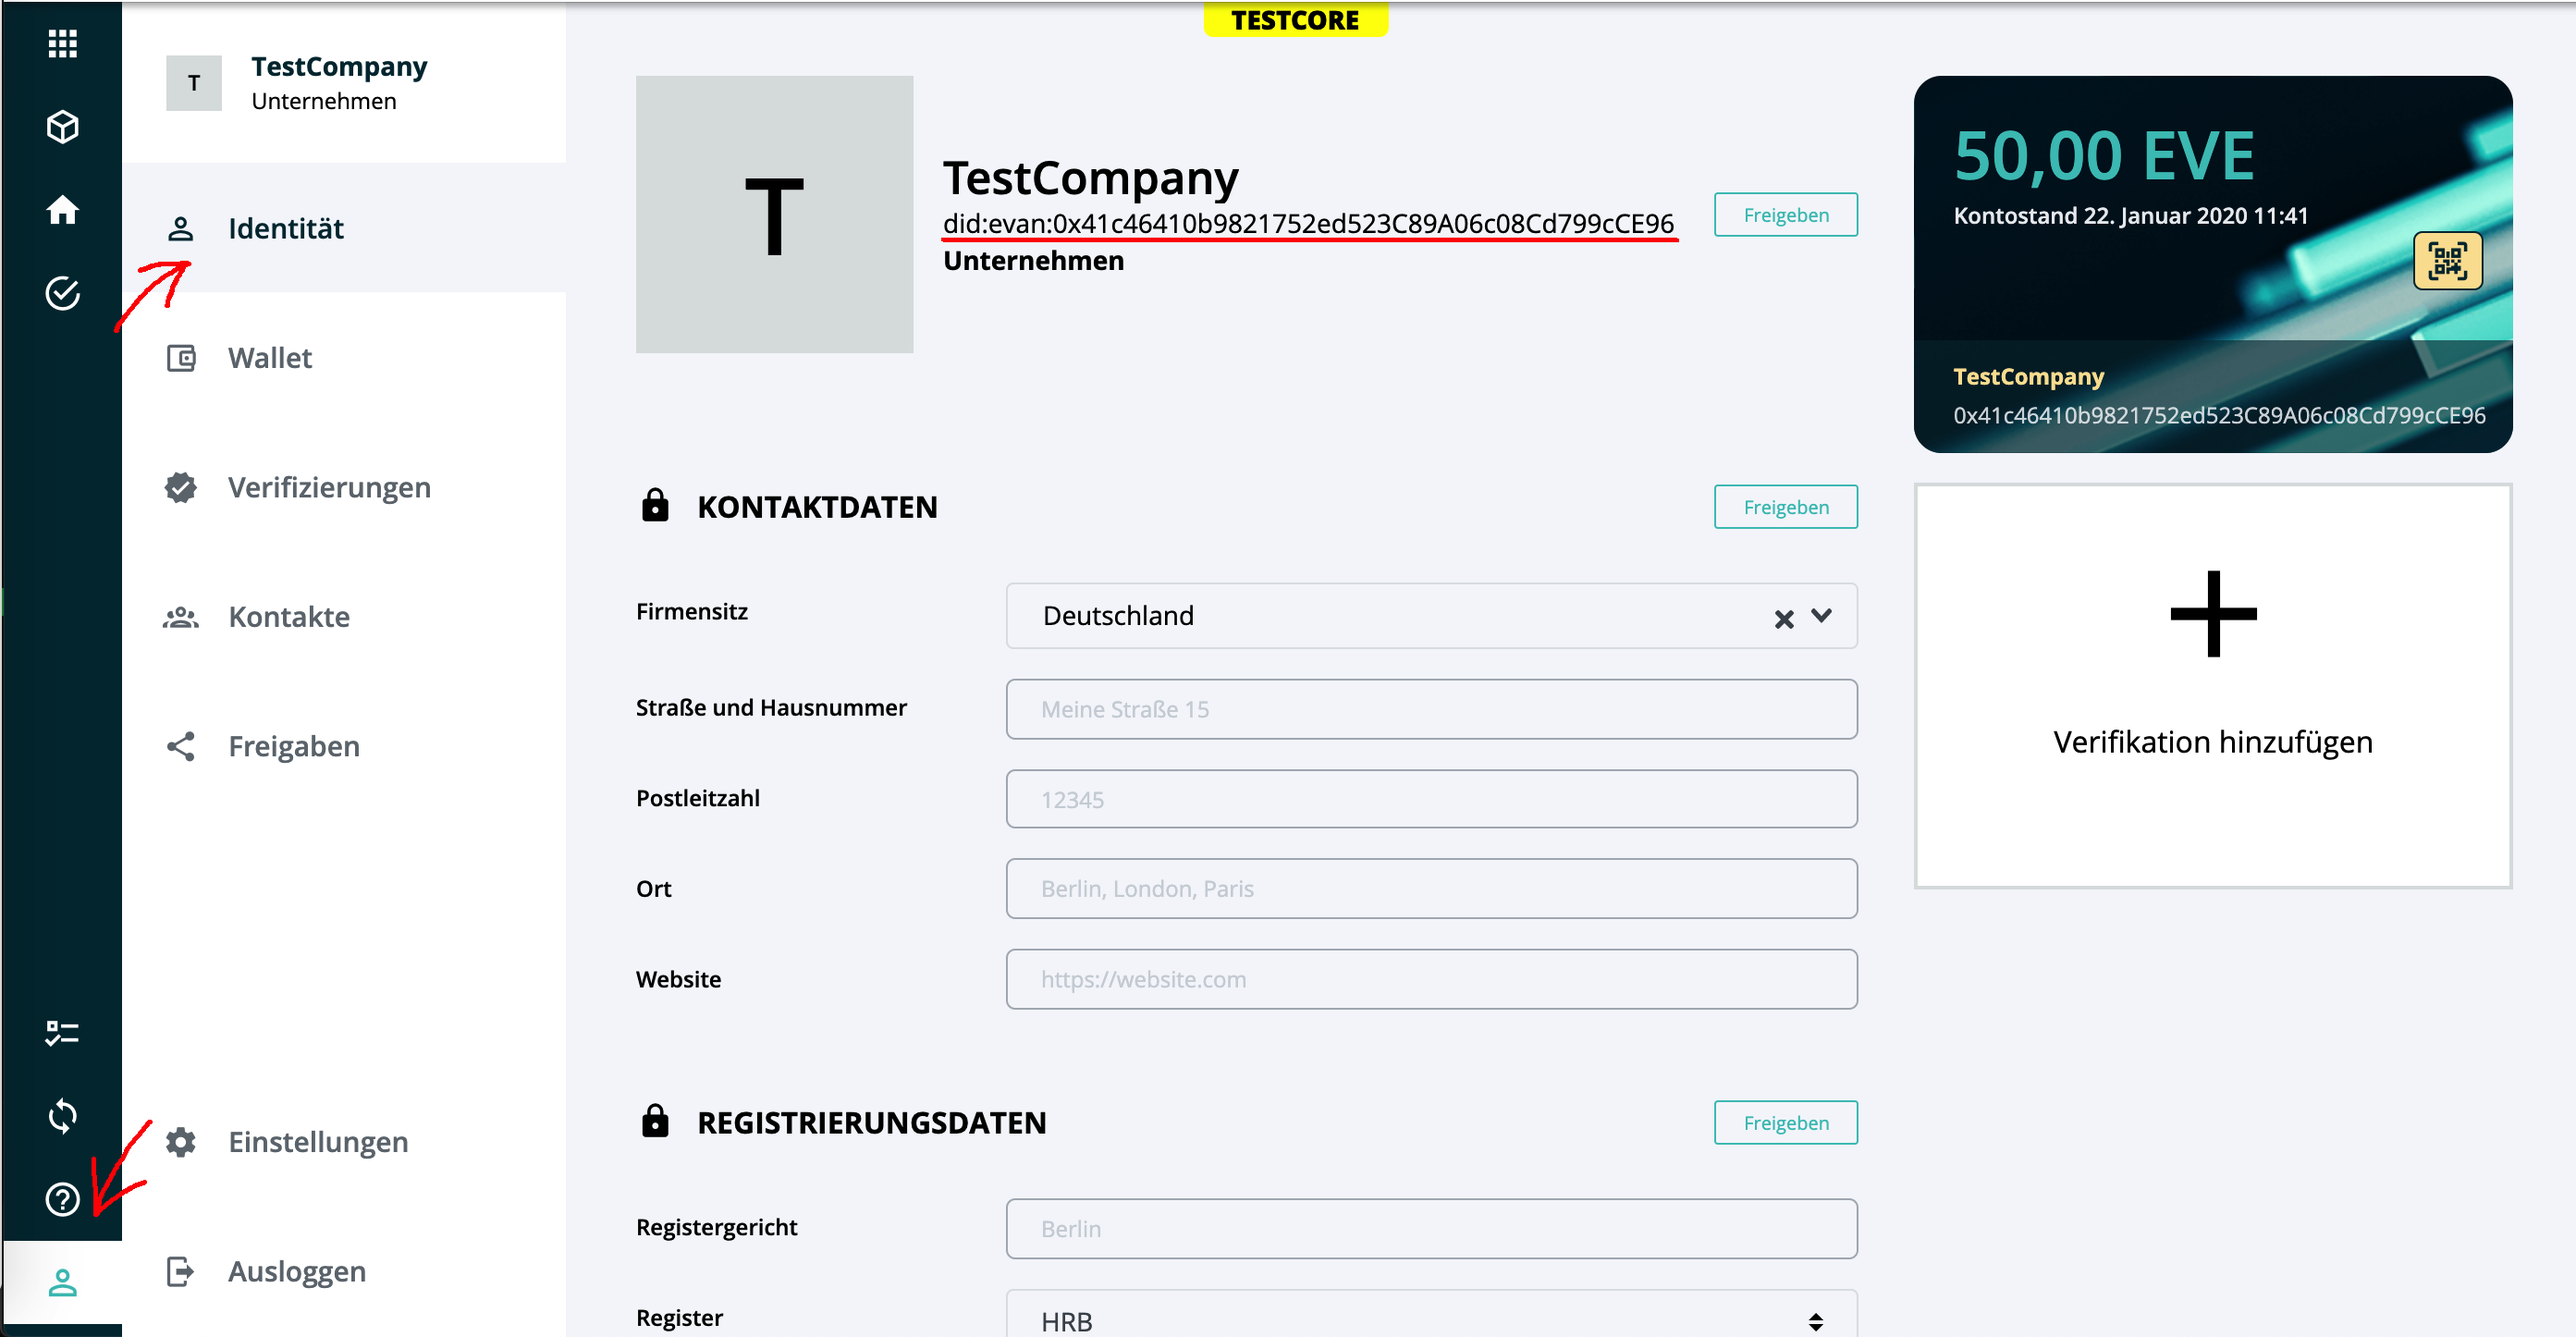
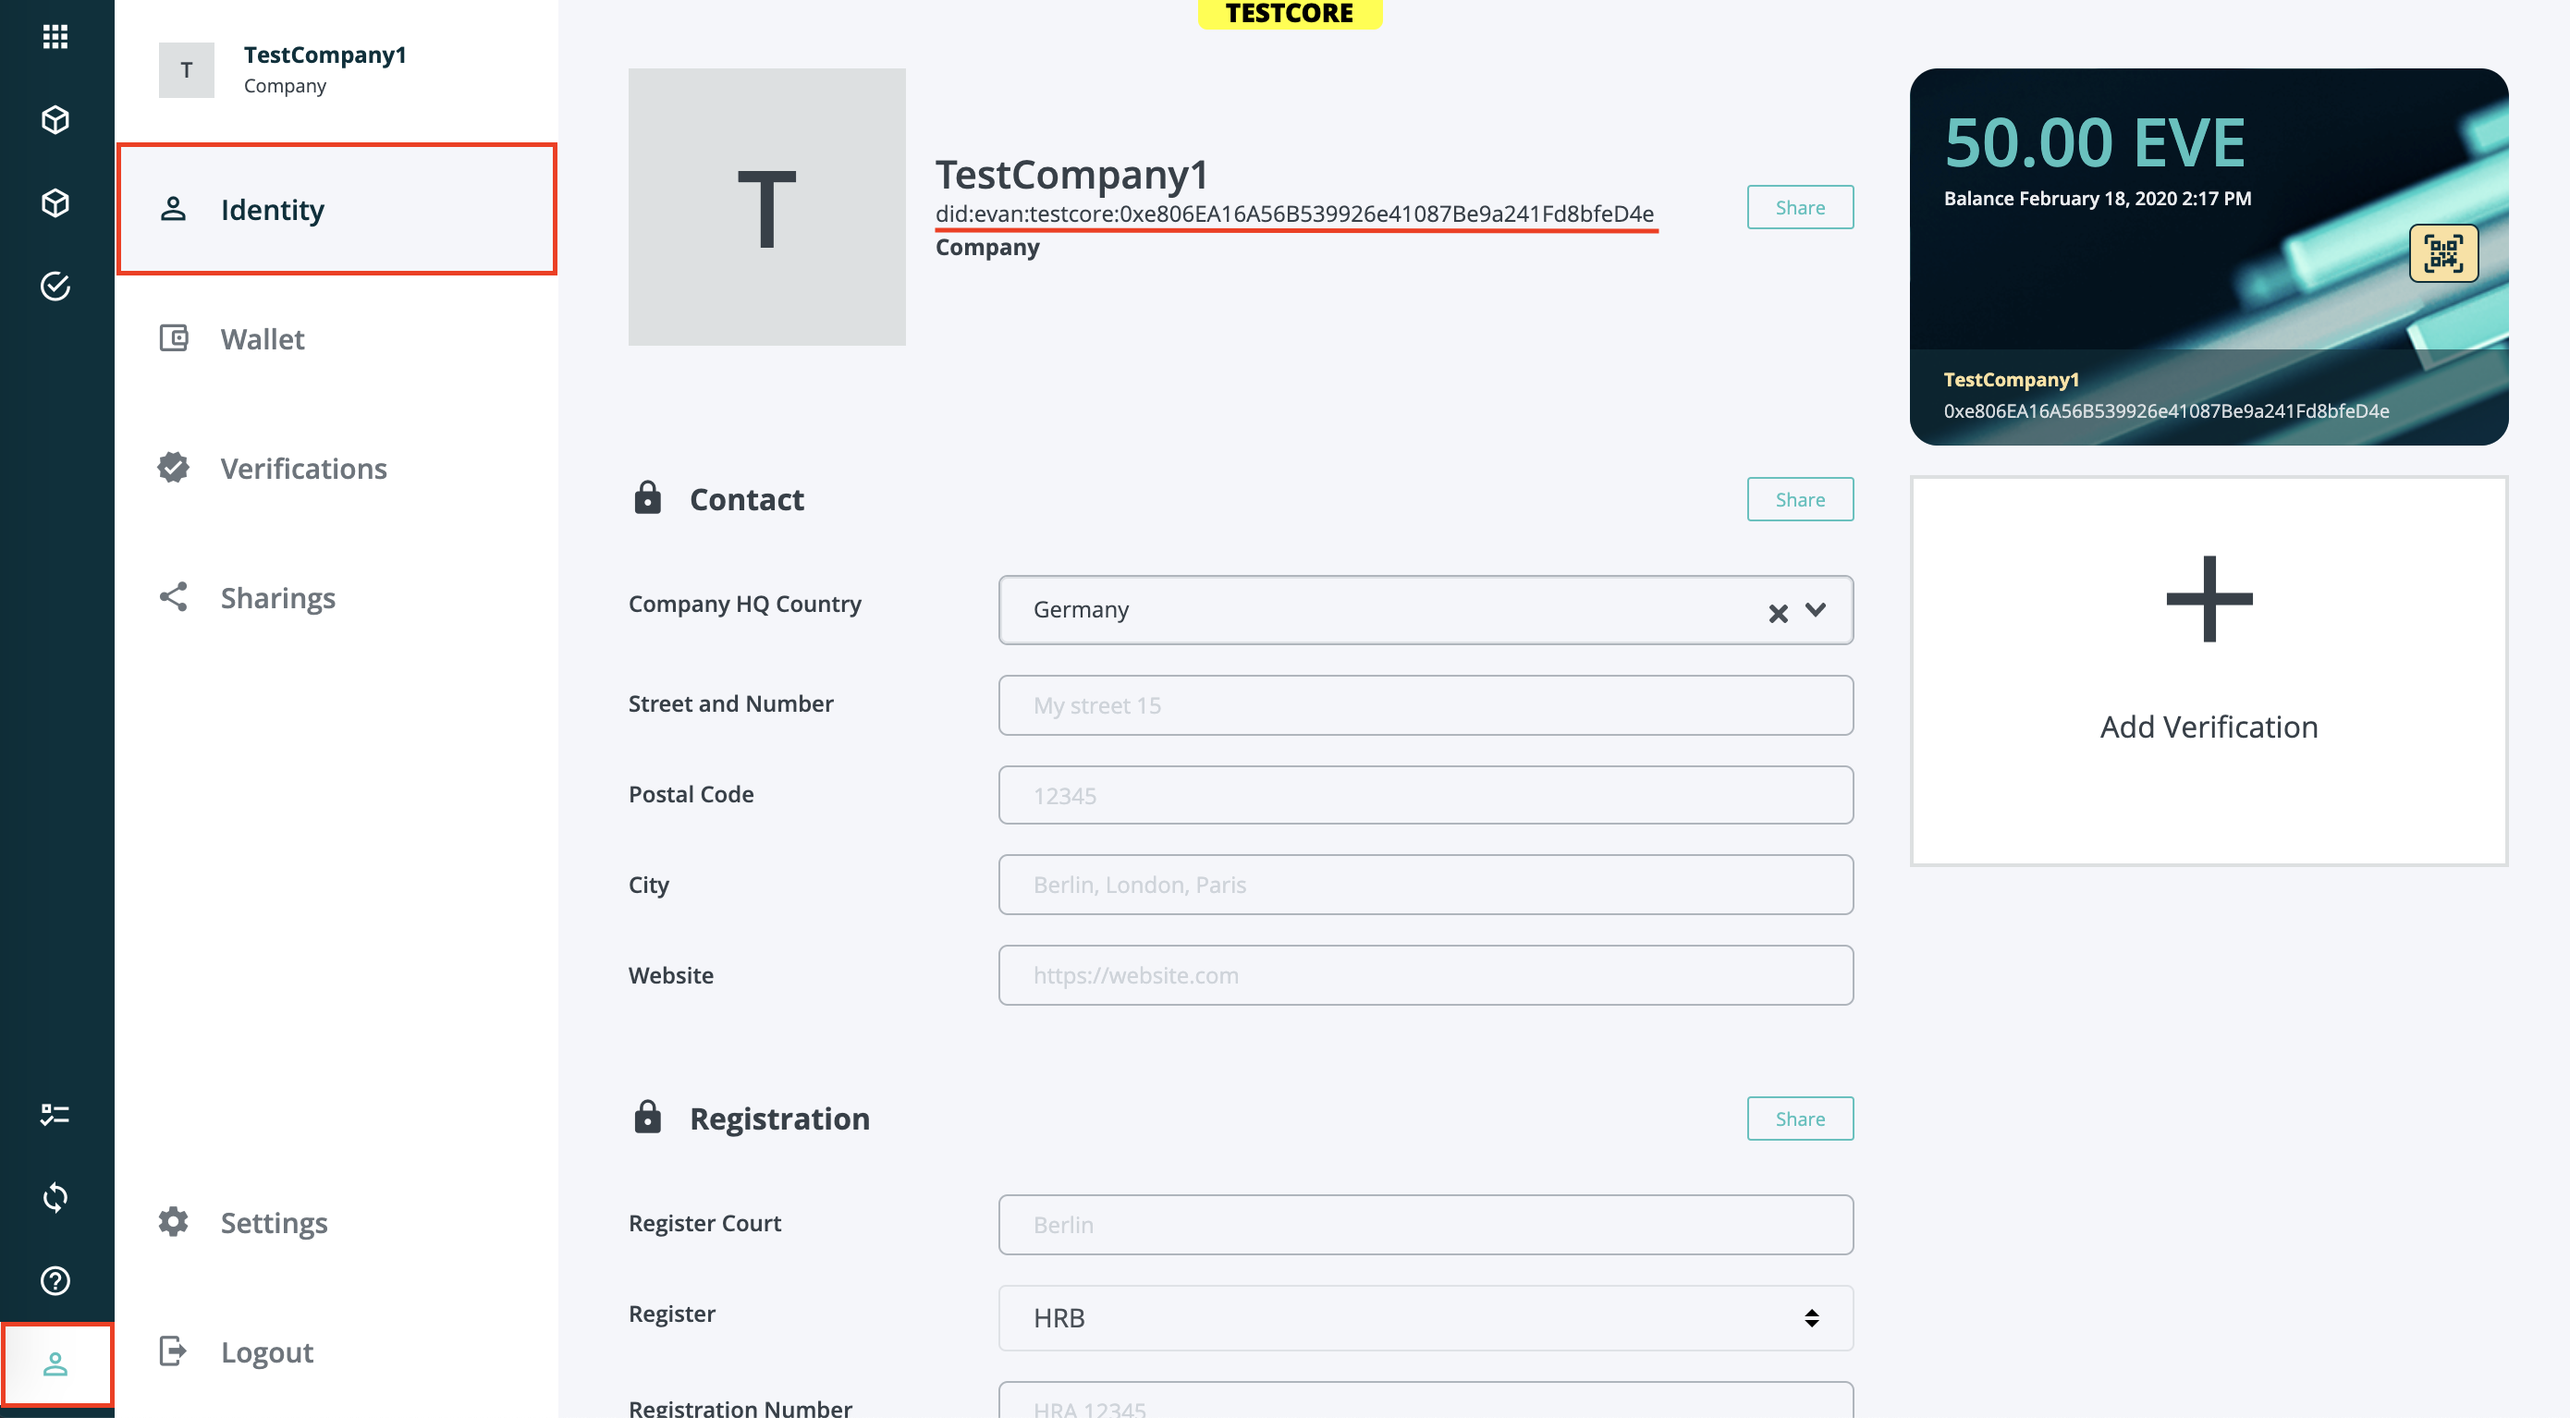
Improved UI DID picture & added profile link
[CORE-1028]

diff --git a/docs/4000_developers/4100_concepts/4160_DID.md b/docs/4000_developers/4100_concepts/4160_DID.md
@@ -17,7 +17,8 @@ For an in-depth explanation of DIDs, please refer to the [W3C DID working draft]
 
 Every identity in evan.network has an according DID that is generated and assigned automatically upon identity creation. This DID points to the according DID document. Every identity gets assigned a default DID document upon creation. This document can be edited by the owner and the controller of the identity at any time.  
 To retrieve the DID of your identity programatically, you can use the [respective API method](https://api-blockchain-core.readthedocs.io/en/latest/profile/did.html#convertidentitytodid).  
-In the UI, you can find your DID here:
+In the UI you can find your DID in the [profile view](https://dashboard.test.evan.network/#/dashboard.vue.evan/profile.vue.evan/):
+
 ![DID in UI](./img/did_ui.png)
 
 The DID always has the format `did:evan:<network>:<id>` where the network can be `core` or `testcore`. DIDs from `core` network can also be referenced with the format `did:evan:<id>`, as DIDs without a network identifier always refer to DIDs on `core`. The id is either a 20-character for *self-sovereign identities* or a 32-character address for *asset identities*.
